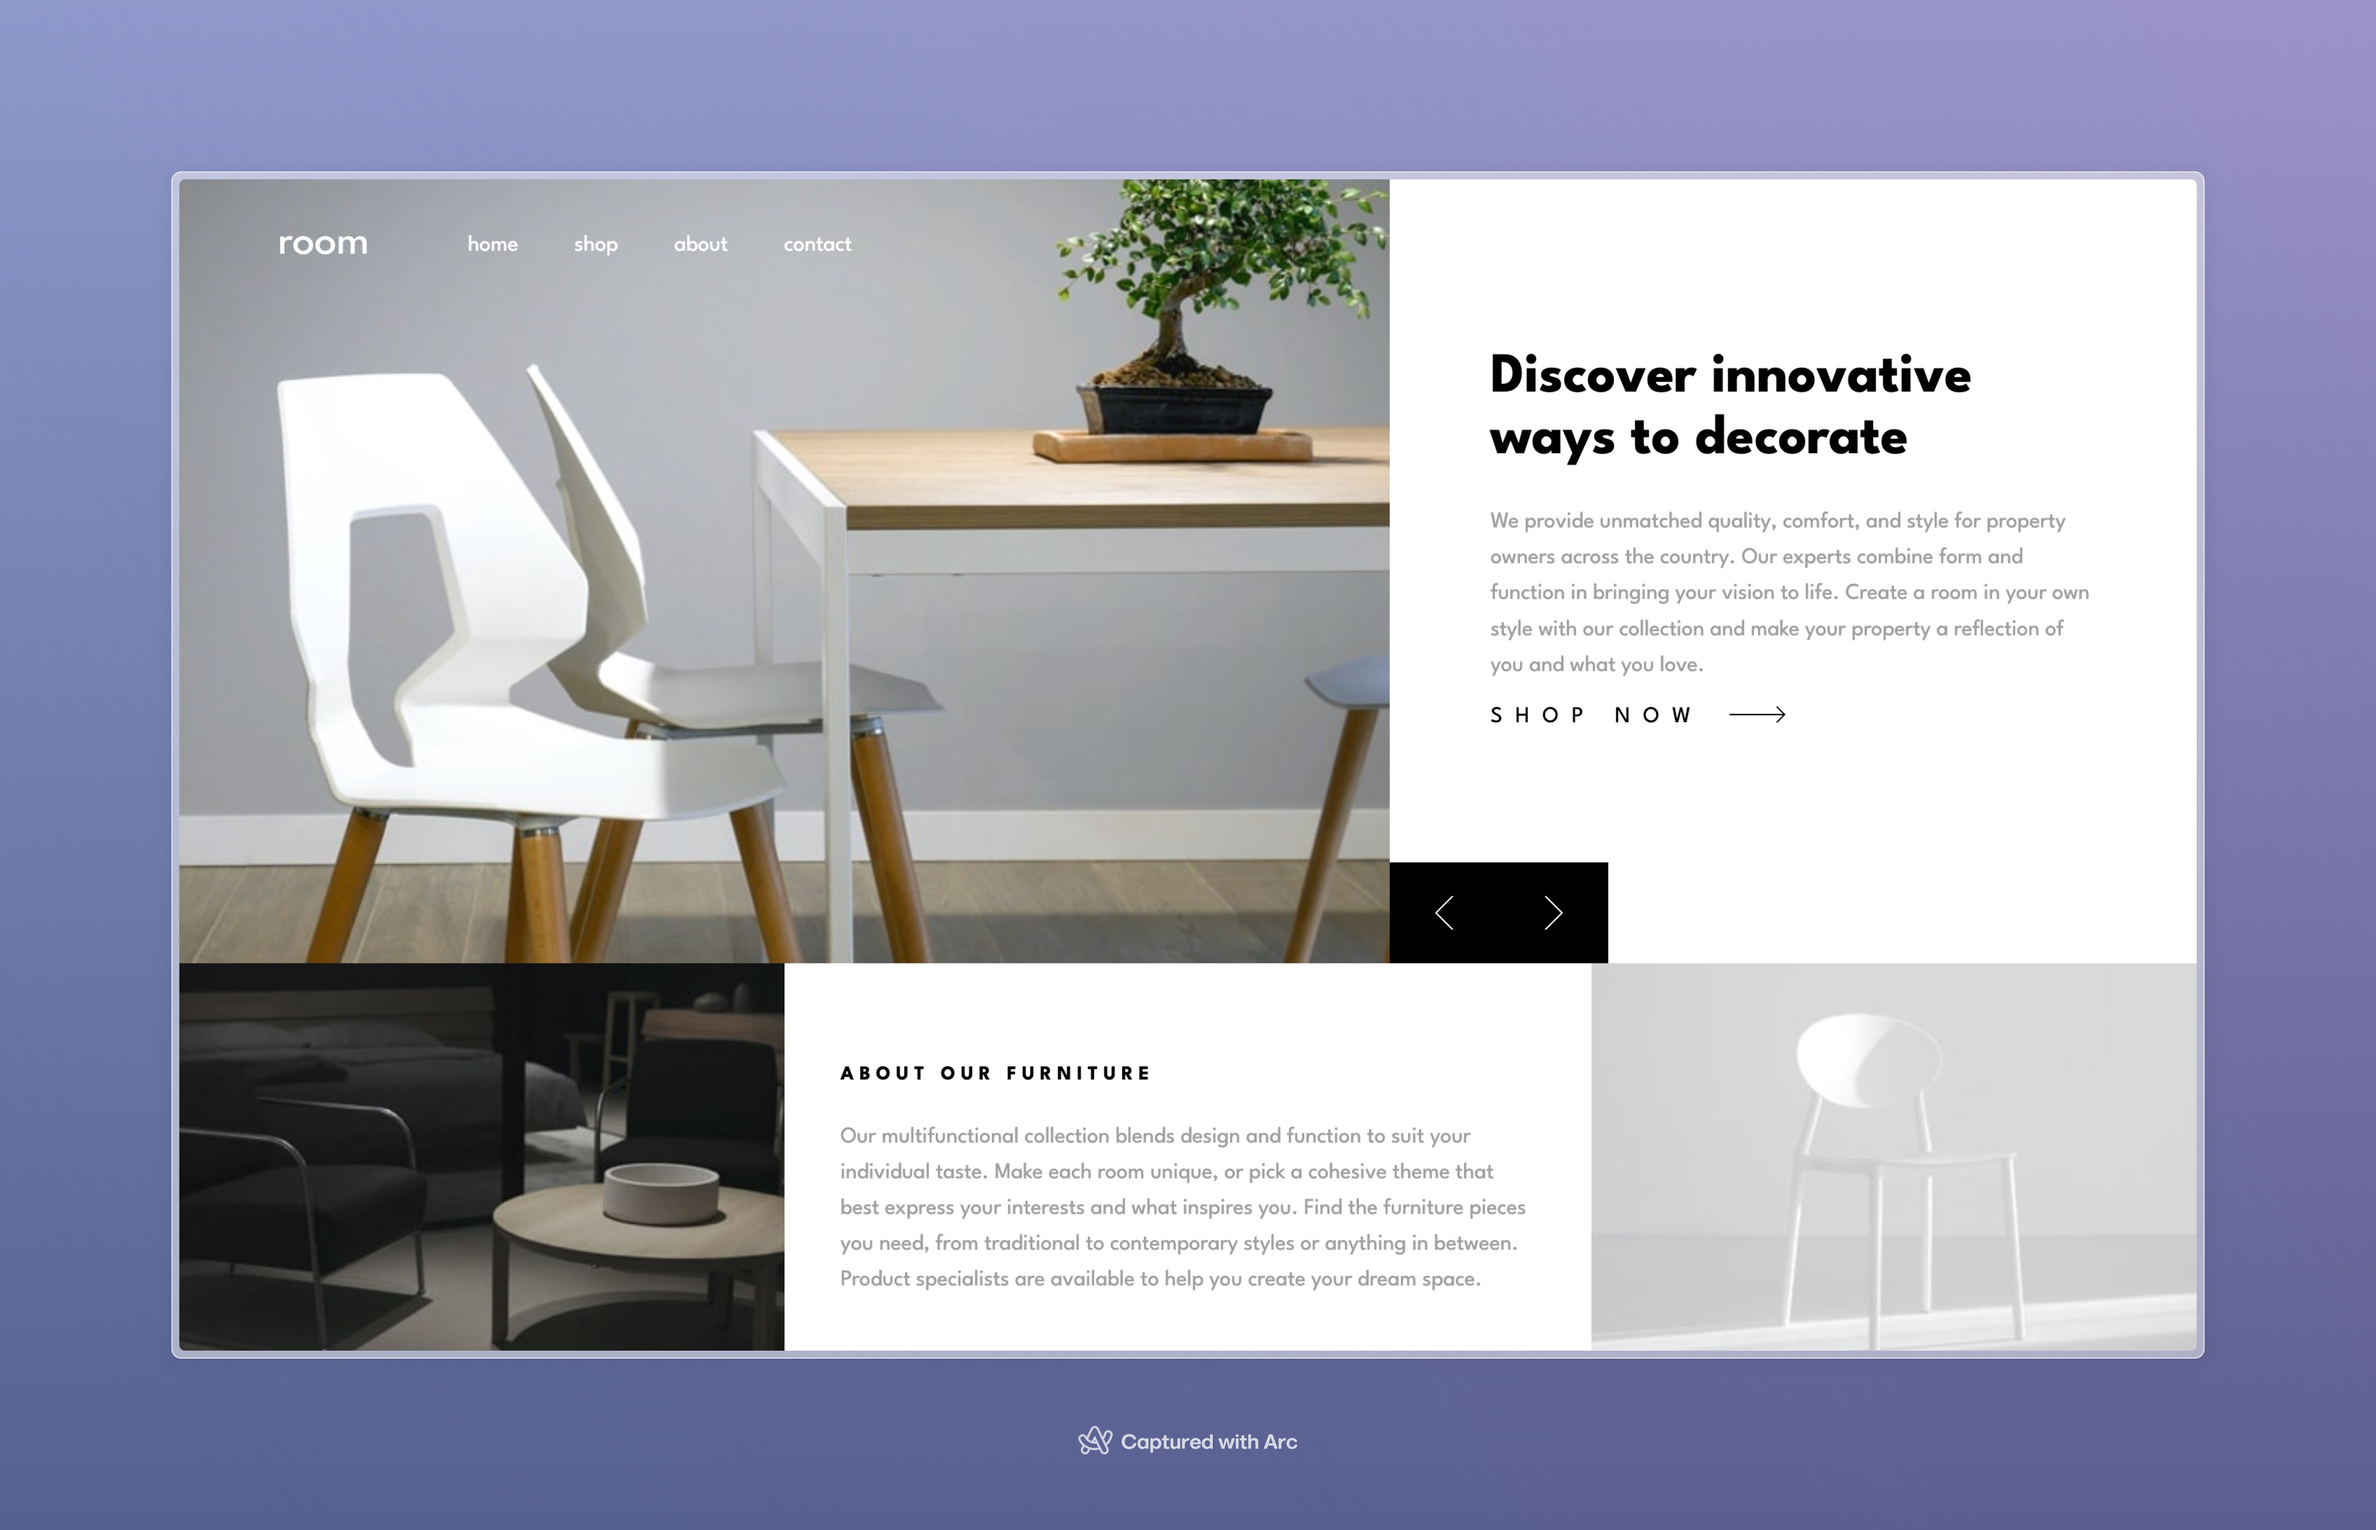
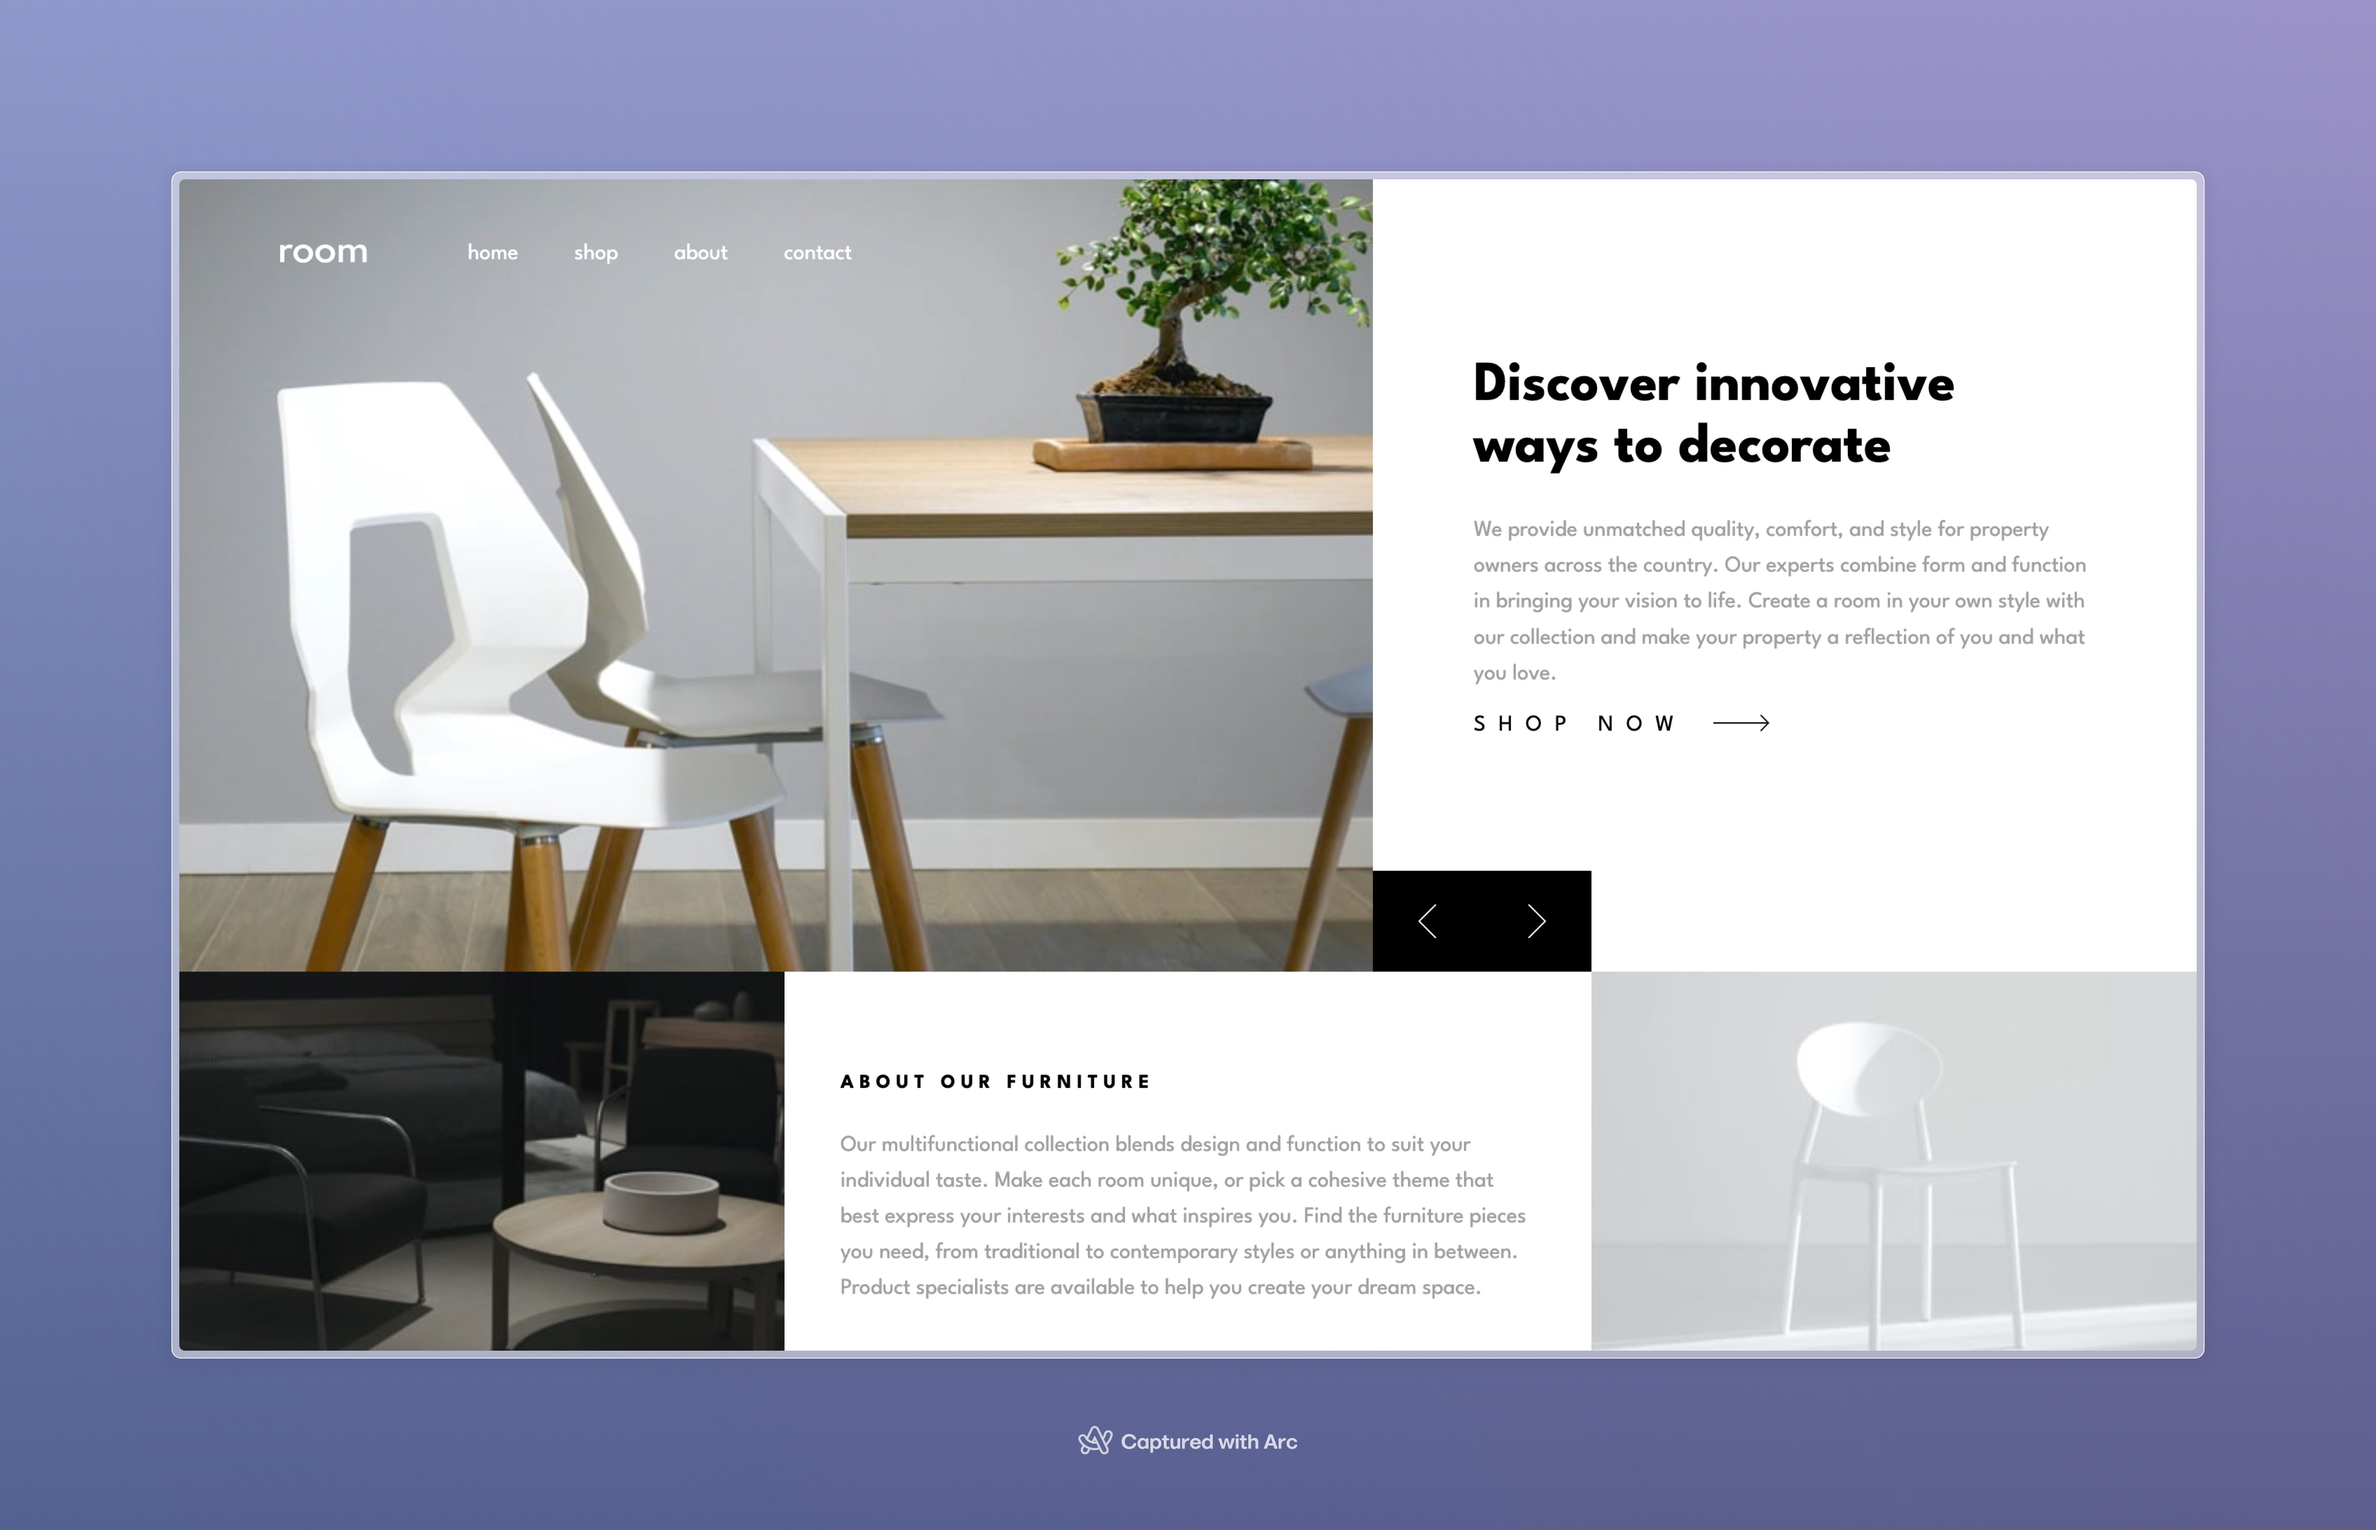
update screenshot

diff --git a/style.css b/style.css
@@ -81,7 +81,7 @@ body {
 
 .wrapper {
   width: 100%;
-  max-width: 1440px;
+  max-width: 90rem;
   margin: 0 auto;
 }
 
@@ -125,13 +125,15 @@ body {
 .nav {
   position: absolute;
   top: 0;
-  left: 0;
+  left: 50%;
+  transform: translateX(-50%);
   width: 100%;
+  max-width: 90rem;
+  margin: 0 auto;
   padding: var(--spacing-s) var(--spacing-base);
   display: flex;
   align-items: center;
   z-index: 9999;
-  /* background-color: black; */
   transition: background-color 0.5s ease;
 }
 
@@ -206,7 +208,7 @@ body {
 
 .carousel__container {
   display: flex;
-  transition: transform 0.5s ease;
+  transition: transform 1s ease-in;
 }
 
 .slide {
